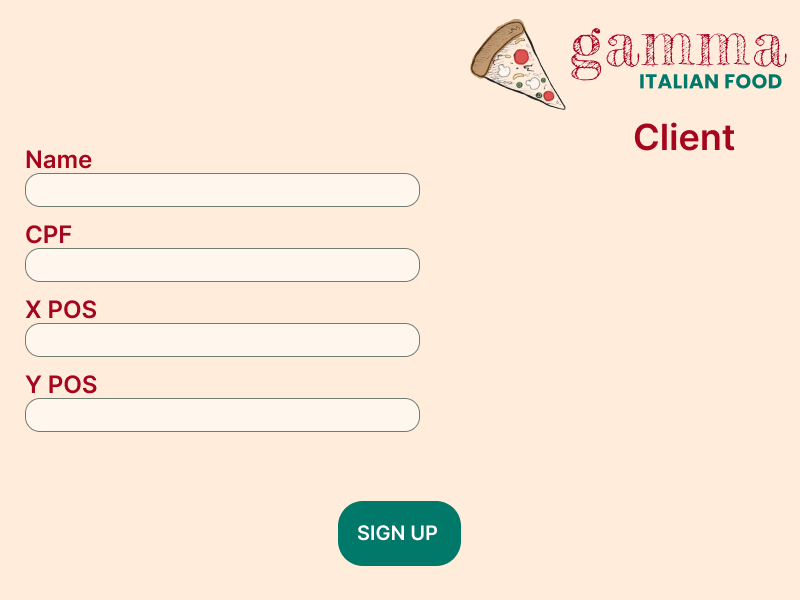
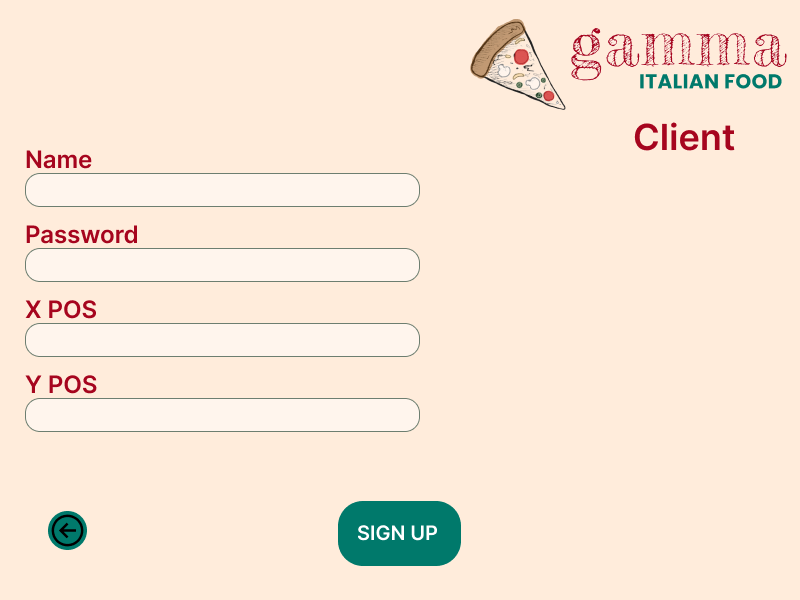
updt

Changed region(s): [[0.0312, 0.36, 0.1875, 0.42], [0.0625, 0.84, 0.125, 0.93]]

diff --git a/src/Screens/SignUpClient.java b/src/Screens/SignUpClient.java
@@ -2,7 +2,9 @@ package Screens;
 
 import Components.Buttons;
 import Components.Inputs;
-
+import java.util.ArrayList;
+import Entities.App;
+import Entities.User;
 import javax.swing.*;
 import java.awt.*;
 import java.util.Objects;
@@ -21,19 +23,35 @@ public class SignUpClient extends JFrame {
         frame.add(label);
 
         Inputs name = new Inputs(385, 34, 35, 173);
-        Inputs cpf = new Inputs(385, 34, 35, 248);
+        Inputs password = new Inputs(385, 34, 35, 248);
         Inputs posX = new Inputs(385, 34, 35, 323);
         Inputs posY = new Inputs(385, 34, 35, 398);
         label.add(name);
-        label.add(cpf);
+        label.add(password);
         label.add(posX);
         label.add(posY);
 
-        Buttons signUp = new Buttons(338,488,196,65);
-        label.add(signUp);
+        Buttons signUpRegister = new Buttons(338,488,196,65);
+
+
+        signUpRegister.addActionListener(e -> {
+            if (name.getText().equals("") || password.getText().equals("") || posX.getText().equals("") || posY.getText().equals("")){
+                JOptionPane.showMessageDialog(null, "fill correct all the fields.");
+            }else {
+                User user = new User(name.getText(), password.getText(), Integer.parseInt(posX.getText()), Integer.parseInt(posY.getText()));
+                System.out.println(user);
+                App.users.add(user);
+            }
+            System.out.println(App.users);
+
+            for (User usu:App.users) {
+                System.out.println(usu.getPassword());
+            }
+        });
+        label.add(signUpRegister);
 
     }
-    public static void main(String[] args) {
+    public void openSignUpClient() {
         SignUpClient frame = new SignUpClient();
         frame.setSize(800,600);
         frame.setResizable(false);

diff --git a/src/Screens/LoginScreen.java b/src/Screens/LoginScreen.java
@@ -30,9 +30,11 @@ public class LoginScreen extends JFrame {
         Buttons signIn = new Buttons(349,455,101,48);
         Buttons newRestaurant = new Buttons(673,470,88,40);
         Buttons newCostumer = new Buttons(673,542,88,40);
+        Buttons backScreen = new Buttons(48,511, 39,39);
         label.add(signIn);
         label.add(newRestaurant);
         label.add(newCostumer);
+        label.add(backScreen);
 
         signIn.addActionListener(new ActionListener() {
             @Override
@@ -43,6 +45,23 @@ public class LoginScreen extends JFrame {
             }
         });
 
+        newRestaurant.addActionListener(new ActionListener() {
+            @Override
+            public void actionPerformed(ActionEvent e) {
+                SignUpRestaurant signUpRestaurant = new SignUpRestaurant();
+                signUpRestaurant.openSignUpRestaurant();
+                dispose();
+            }
+        });
+
+        newCostumer.addActionListener(new ActionListener() {
+            @Override
+            public void actionPerformed(ActionEvent e) {
+                SignUpClient signUpClient = new SignUpClient();
+                signUpClient.openSignUpClient();
+                dispose();
+            }
+        });
     }
 
     public static void main(String[] args) {

diff --git a/src/Entities/User.java b/src/Entities/User.java
@@ -1,20 +1,35 @@
-public class User extends Login{
-    private String username;
+package Entities;
+
+public class User {
+
     private String password;
-    public String name;
+    public String username;
     private int posX;
     private int posY;
-    private String cpf;
 
-    public User(String name, String username, String password, int posX, int posY, String cpf){
-        super();
-        this.name = name;
+    public User(String username, String password, int posX, int posY) {
         this.setUsername(username);
         this.setPassword(password);
         this.posX = posX;
         this.posY = posY;
-        this.setCpf(cpf);
 
+    }
+
+
+    public String getUsername() {
+        return username;
+    }
+
+    public void setUsername(String username) {
+        this.username = username;
+    }
+
+    public String getPassword() {
+        return password;
+    }
+
+    public void setPassword(String password) {
+        this.password = password;
     }
 
     public int getPosX() {
@@ -32,12 +47,5 @@ public class User extends Login{
     public void setPosY(int posY) {
         this.posY = posY;
     }
-
-    public String getCpf() {
-        return cpf;
-    }
-
-    public void setCpf(String cpf) {
-        this.cpf = cpf;
-    }
 }
+

diff --git a/src/Screens/SignUpRestaurant.java b/src/Screens/SignUpRestaurant.java
@@ -32,7 +32,7 @@ public class SignUpRestaurant extends JFrame {
         label.add(signUp);
 
     }
-    public static void main(String[] args) {
+    public void openSignUpRestaurant() {
         SignUpRestaurant frame = new SignUpRestaurant();
         frame.setSize(800,600);
         frame.setResizable(false);

diff --git a/src/Entities/App.java b/src/Entities/App.java
@@ -1,0 +1,13 @@
+package Entities;
+
+import java.util.ArrayList;
+
+public class App {
+    public static ArrayList<User> users = new ArrayList<>();
+    public App() {
+
+    }
+    public void addUsers(User user){
+        users.add(user);
+    }
+}

diff --git a/src/Entities/Main.java b/src/Entities/Main.java
@@ -1,3 +1,5 @@
+package Entities;
+
 public class Main {
     public static void main(String[] args) {
         System.out.println("Hello world!");

diff --git a/src/Entities/Login.java b/src/Entities/Login.java
@@ -1,3 +1,5 @@
+package Entities;
+
 public class Login {
     private String username;
     private String password;

diff --git a/src/Entities/Dish.java b/src/Entities/Dish.java
@@ -1,3 +1,5 @@
+package Entities;
+
 public class Dish {
 
     public String dishName;

diff --git a/src/Entities/Restaurant.java b/src/Entities/Restaurant.java
@@ -1,2 +1,4 @@
+package Entities;
+
 public class Restaurant {
 }

diff --git a/src/Entities/Order.java b/src/Entities/Order.java
@@ -1,2 +1,4 @@
+package Entities;
+
 public class Order {
 }
